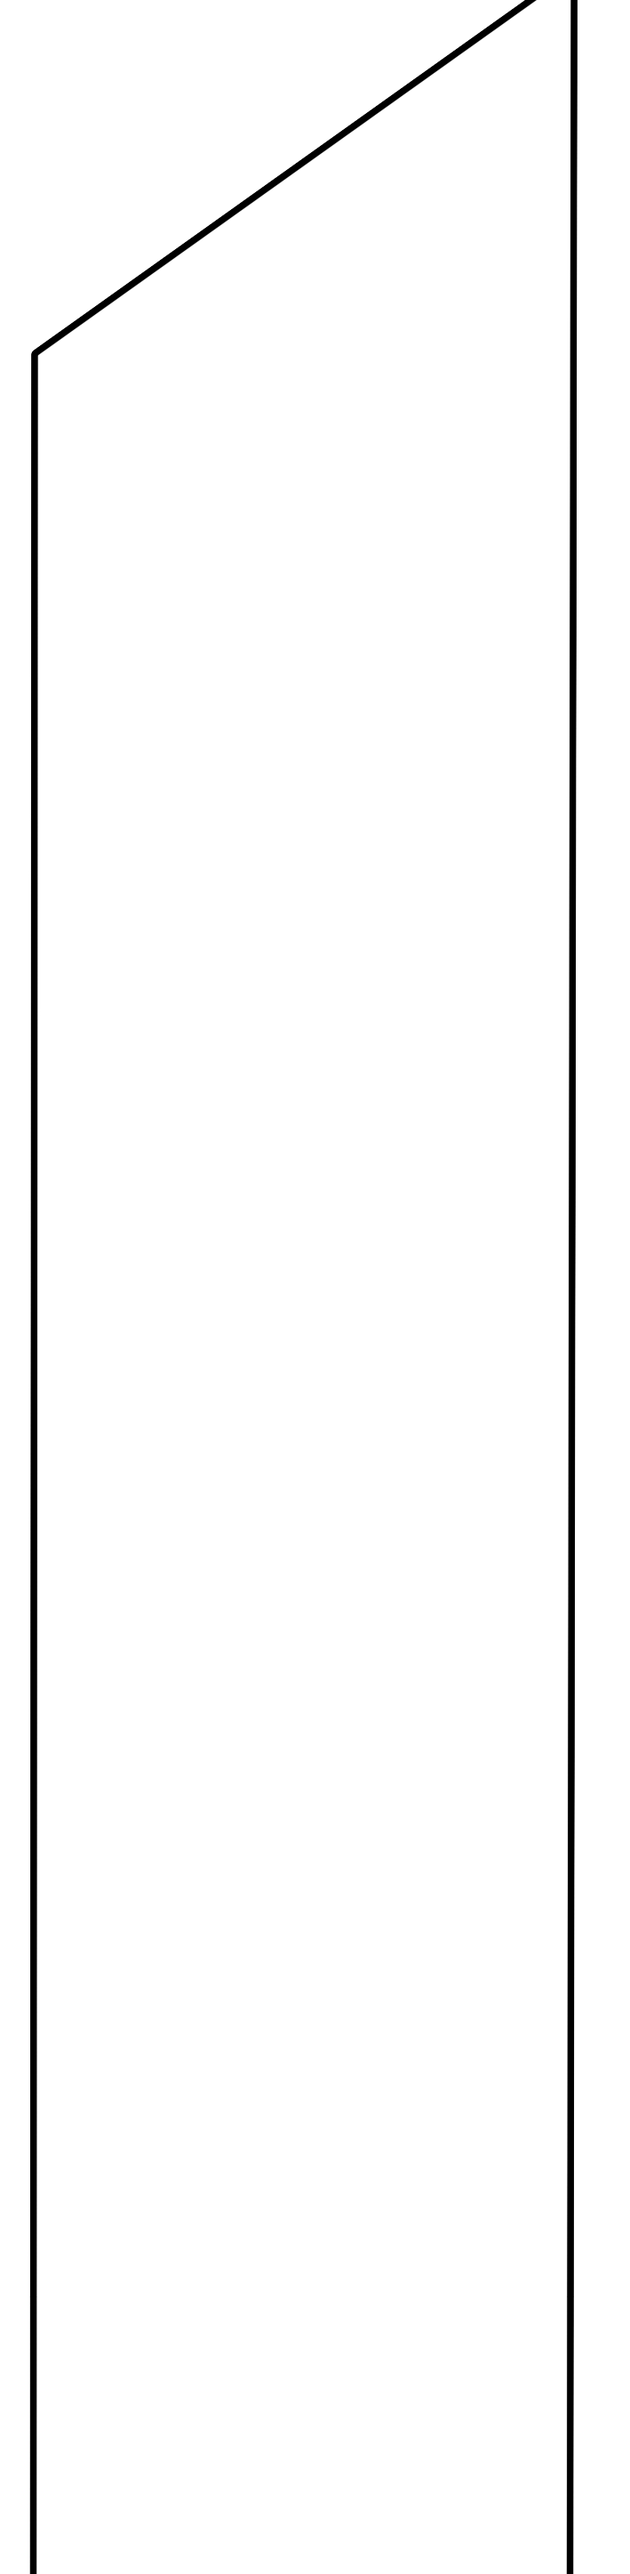
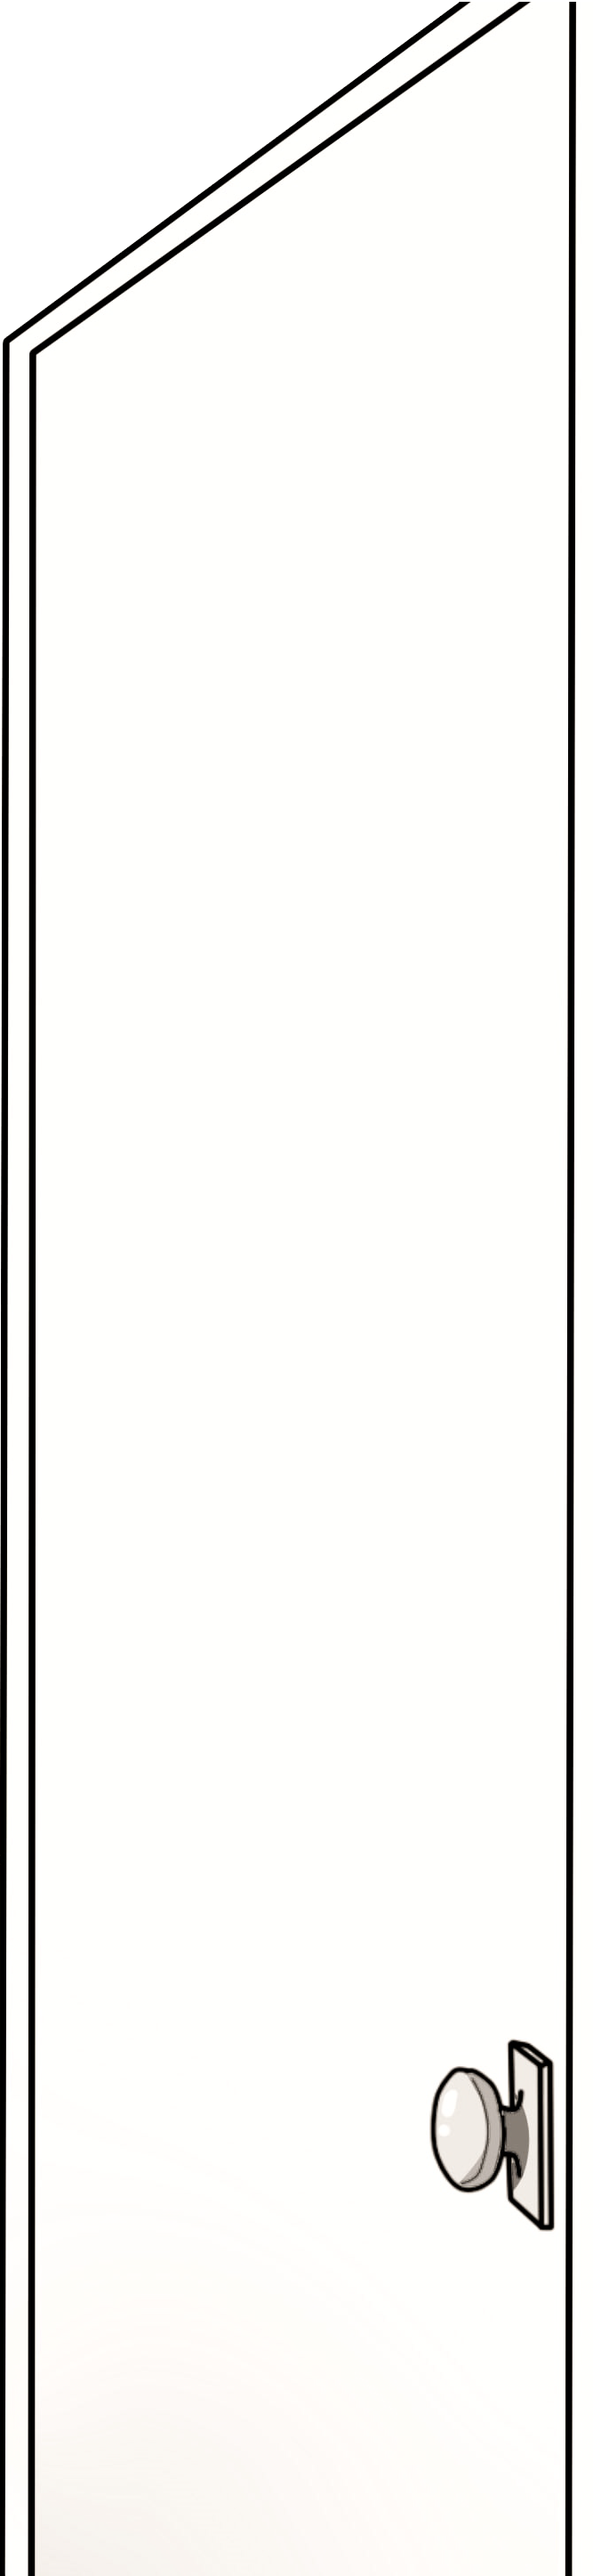
Grafik uppdaterad + ompositionerad = klart!

Changed region(s): [[0.7196, 0.0, 0.9895, 1.0], [0.0, 0.1244, 0.06, 1.0], [0.06, 0.0, 0.8696, 0.1244]]

diff --git a/Proto/MGame/motor.js b/Proto/MGame/motor.js
@@ -46,6 +46,7 @@ ScreenSpec.CreateCanvas(); //Skapar Canvasen..
                 //GameEngine.Actives.Player.TimePoints -= 2;
                 GameEngine.Machines.PlayersHuddUpdate(); //Uppdaterar Hudden..
                 GameEngine.GoToButtons.GuessMurderButtons = [];
+                GameEngine.Actives.IsDialogActive = false;
                 GameEngine.Machines.BuildRoom(Button.RoomToGo);
             }
 
@@ -128,7 +129,7 @@ ScreenSpec.CreateCanvas(); //Skapar Canvasen..
 
             }
 
-            //kontrollerar om en BlippBox Trycks på..
+            //kontrollerar om en karktärBlippBox Trycks på..
             for(var i = 0; i < GameEngine.GoToButtons.BlippButtons.length; i++){
                 Button = GameEngine.GoToButtons.BlippButtons[i];
                 if(mX >= Button.PosX && mX < Button.PosX + Button.Width && mY >= Button.PosY && mY < Button.PosY + Button.Height){
@@ -137,6 +138,7 @@ ScreenSpec.CreateCanvas(); //Skapar Canvasen..
                     GameEngine.Machines.PlayersHuddUpdate(); //Uppdaterar Hudden..
                     GameEngine.Machines.fillBackgroundGray(); // gör bakgrunden grå.
                     GameEngine.GoToButtons.BlippButtons = [];//innaktiverar BlippBoxKnappar..
+                    GameEngine.GoToButtons.backButton = "";
                     GameEngine.Machines.SelectAnswerForActor(Button.ActorOfBox, Button.GameCard);
                     return;
 
@@ -1050,7 +1052,7 @@ var GameEngine = {
 
         createBlippBox : function(GameCard){
             GameEngine.Actives.IsDialogActive = true;
-            GameEngine.GoToButtons.backButton = "";
+            //GameEngine.GoToButtons.backButton = "";
             //Vi måste tömma WayPoints i GoToButtons så att det inte finns osynliga knappar att trycka på..
             //För ClueButtons ska vi disabla, detta pga annan teknik..
             GameEngine.GoToButtons.WayPoints = [];
@@ -2460,17 +2462,17 @@ var GameEngine = {
                 [//Containers_Arr
                     new GameEngine.Classes.PlaceHolder(
                         new GameEngine.Classes.Container("Data/Map/Extras/recyclebin.png"),
-                        GameEngine.Machines.getPosition(0.895405669599218, "x"),
-                        GameEngine.Machines.getPosition(0.6618952190094475, "y"),
+                        GameEngine.Machines.getPosition(0.35777126099706746, "x"),
+                        GameEngine.Machines.getPosition(0.6298310907529344 , "y"),
                         GameEngine.Machines.getPosition(0.08, "x"),
                         GameEngine.Machines.getPosition(0.10, "y")
                     ),
                     new GameEngine.Classes.PlaceHolder(
-                        new GameEngine.Classes.Container("Data/Map/Extras/cabinet.jpg"),
-                        GameEngine.Machines.getPosition(0.2883675464320626, "x"),
-                        GameEngine.Machines.getPosition(0.16490123103349555, "y"),
-                        GameEngine.Machines.getPosition(0.20, "x"),
-                        GameEngine.Machines.getPosition(0.20, "y")
+                        new GameEngine.Classes.Container("Data/Map/Extras/cabinet.png"),
+                        GameEngine.Machines.getPosition(0.7438905180840665, "x"),
+                        GameEngine.Machines.getPosition(0.1419982822788434, "y"),
+                        GameEngine.Machines.getPosition(0.09579667644183776, "x"),
+                        GameEngine.Machines.getPosition(0.22330375035785857, "y")
                     )
                 ],
                 [//TableClueArr
@@ -2525,36 +2527,36 @@ var GameEngine = {
                         0  //YPosition
                     ),
                     new GameEngine.Classes.PlaceHolder(
-                        new GameEngine.Classes.WayPoint(5,"Data/Map/Bedrom_1/doors_1.png", "Bedroom 1"),
+                        new GameEngine.Classes.WayPoint(5,"Data/Map/Bedrom_1/doors_1-left.png", "Bedroom 1"),
                         GameEngine.Machines.getPosition(0.0075  , "x"), //XPosition
                         0  //YPosition
                     ),
                     new GameEngine.Classes.PlaceHolder(
                         new GameEngine.Classes.WayPoint(6,"Data/Map/Bedrom_2/doors_2-left.png", "Bedroom 2"),
-                        GameEngine.Machines.getPosition(0.24125, "x"), //XPosition
-                        GameEngine.Machines.getPosition(0.18  , "y")  //YPosition
+                        GameEngine.Machines.getPosition(0.23558162267839688, "x"), //XPosition
+                        GameEngine.Machines.getPosition(0.17406241053535643  , "y")  //YPosition
                     ),
                     new GameEngine.Classes.PlaceHolder(
                         new GameEngine.Classes.WayPoint(7,"Data/Map/Bedrom_3/doors_3-left.png", "Bedroom 3"),
-                        GameEngine.Machines.getPosition(0.32375  , "x"), //XPosition
-                        GameEngine.Machines.getPosition(0.25466666666666665  , "y")  //YPosition
+                        GameEngine.Machines.getPosition(0.3313782991202346  , "x"), //XPosition
+                        GameEngine.Machines.getPosition(0.2565130260521042, "y")  //YPosition
                     ),
 
                     new GameEngine.Classes.PlaceHolder(
                         new GameEngine.Classes.WayPoint(8,"Data/Map/Bedrom_4/doors_1-right.png", "Bedroom 4"),
-                        GameEngine.Machines.getPosition(0.8425   , "x"), //XPosition
+                        GameEngine.Machines.getPosition(0.8367546432062561   , "x"), //XPosition
                         0  //YPosition
 
                     ),
                     new GameEngine.Classes.PlaceHolder(
                         new GameEngine.Classes.WayPoint(9,"Data/Map/Bedrom_5/doors_2-right.png", "Bedroom 5"),
-                        GameEngine.Machines.getPosition(0.70625, "x"), //XPosition
-                        GameEngine.Machines.getPosition(0.18   , "y")  //YPosition
+                        GameEngine.Machines.getPosition(0.7047898338220919, "x"), //XPosition
+                        GameEngine.Machines.getPosition(0.17406241053535643 , "y")  //YPosition
                     ),
                     new GameEngine.Classes.PlaceHolder(
                         new GameEngine.Classes.WayPoint(10,"Data/Map/Bedrom_6/doors_3-right.png", "Bedroom 6"),
-                        GameEngine.Machines.getPosition(0.6425, "x"), //XPosition
-                        GameEngine.Machines.getPosition(0.26, "y")  //YPosition
+                        GameEngine.Machines.getPosition(0.6412512218963832, "x"), //XPosition
+                        GameEngine.Machines.getPosition(0.2565130260521042 , "y")  //YPosition
 
                     )
                 ],
@@ -2565,14 +2567,15 @@ var GameEngine = {
                         GameEngine.Machines.getPosition(0.4683653020326367, "y"),
                         GameEngine.Machines.getPosition(0.05, "x"),
                         GameEngine.Machines.getPosition(0.07, "y")
-                    ),
+                    )
+                    /*,
                     new GameEngine.Classes.PlaceHolder(
                         new GameEngine.Classes.Container("Data/Map/Extras/placeholder.jpg"),
                         GameEngine.Machines.getPosition(0.5865102639296188 , "x"),
                         GameEngine.Machines.getPosition(0.3103349556255368, "y"),
-                        GameEngine.Machines.getPosition(0.05, "x"),
-                        GameEngine.Machines.getPosition(0.20, "y")
-                    )
+                        GameEngine.Machines.getPosition(0.03, "x"),
+                        GameEngine.Machines.getPosition(0.15, "y")
+                    )*/
                 ],
                 [//TableClueArr
                     new GameEngine.Classes.PlaceHolder(
@@ -2958,8 +2961,8 @@ var GameEngine = {
                     ),
                     new GameEngine.Classes.PlaceHolder(
                         new GameEngine.Classes.WayPoint(11,"Data/Map/Kitchen/door.png", "Kitchen"),
-                        GameEngine.Machines.getPosition(0.5025, "x"),//XPosition
-                        GameEngine.Machines.getPosition(0.304, "y")
+                        GameEngine.Machines.getPosition(0.4995112414467253, "x"),//XPosition
+                        GameEngine.Machines.getPosition(0.3080446607500716, "y")
                             //YPosition
                     )
 
@@ -2996,7 +2999,7 @@ var GameEngine = {
                     new GameEngine.Classes.PlaceHolder(
                         new GameEngine.Classes.WayPoint(4,"Data/Map/PreBedroom/doors_2-left.png", "Bedroom Corridor"),
                         GameEngine.Machines.getPosition(0.24125, "x"), //XPosition
-                        GameEngine.Machines.getPosition(0.18, "y")//YPosition
+                        GameEngine.Machines.getPosition(0.17406241053535643, "y")//YPosition
 
 
                     ),
@@ -3041,13 +3044,13 @@ var GameEngine = {
                     new GameEngine.Classes.PlaceHolder(
                         new GameEngine.Classes.WayPoint(13,"Data/Map/BathRoom/doors_3-right.png", "Bathroom"),
                         GameEngine.Machines.getPosition(0.64125, "x"), //XPosition
-                        GameEngine.Machines.getPosition(0.256, "y")  //YPosition
+                        GameEngine.Machines.getPosition(0.25765817348983683, "y")  //YPosition
 
                     ),
                     new GameEngine.Classes.PlaceHolder(
                         new GameEngine.Classes.WayPoint(12,"Data/Map/TvRoom/door.png", "Tv-Room"),
-                        GameEngine.Machines.getPosition(0.4675, "x"), //XPosition
-                        GameEngine.Machines.getPosition(0.304, "y")  //YPosition
+                        GameEngine.Machines.getPosition(0.4633431085043988, "x"), //XPosition
+                        GameEngine.Machines.getPosition(0.30689951331233895, "y")  //YPosition
                     )
 
                 ],
